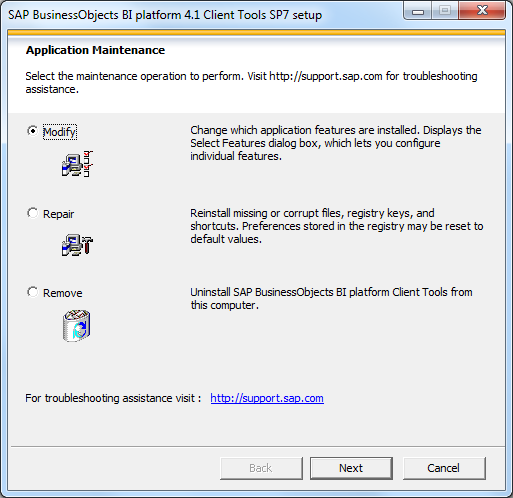
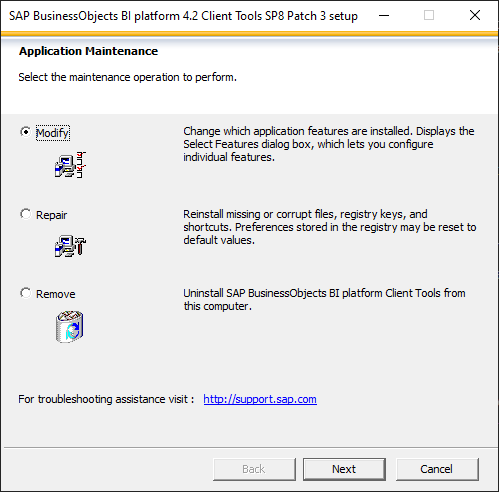
docs

Changed region(s): [[0.0, 0.0, 1.0, 1.0], [0.3607, 0.5793, 0.9319, 0.6402]]

diff --git a/_pages/unx-universe-documentation.md b/_pages/unx-universe-documentation.md
@@ -12,33 +12,31 @@ You can create documentation for a Unx universe in two ways: as a PDF or in an E
 2. Retrieve the Unx universe in IDT.
 3. Right-click on the item you want to document (e.g., business layer) and select "Save as."
 
-![Creating PDF documentation of UNX in IDT](/images/pages/unx-documentation.png)
+  ![Creating PDF documentation of UNX in IDT](/images/pages/unx-documentation.png)
 
 4. You can now select the destination and metadata elements to be exported.
 
-![Selection of elements for PDF documentation of UNX in IDT](/images/pages/unx-documentation-2.png)
+  ![Selection of elements for PDF documentation of UNX in IDT](/images/pages/unx-documentation-2.png)
 
-This method is suitable for quickly generating printable documentation.
+  ![PDF documentation of UNX created in IDT](/images/pages/unx-documentation-3.png)
 
-![PDF documentation of UNX created in IDT](/images/pages/unx-documentation-3.png)
-
-However, if you need structured documentation for practical purposes, consider the following method.
+This method is suitable for quickly generating printable documentation. However, if you need structured documentation for practical purposes, consider the following method.
 
 ## Creating XLSX Documentation using Biclever Unx Documenter
 
 1. Download [Biclever Unx Documenter](/products/unx-universe-documenter/) and unpack it to a preferred folder. Ensure you have Semantic Layer SDK enabled.
 2. Start the tool using `unxdoc.bat` and log in.
 
-![Biclever Unx Documenter](/images/pages/unx-documentation-4.png)
+  ![Biclever Unx Documenter](/images/pages/unx-documentation-4.png)
 
 3. Select a universe.
 
-![Selecting a universe](/images/pages/unx-documentation-5.png)
+  ![Selecting a universe](/images/pages/unx-documentation-5.png)
 
 4. Click "Process" and then "Export result." Choose a destination XLSX file.
 
-![Exporting result to XLSX](/images/pages/unx-documentation-6.png)
+  ![Exporting result to XLSX](/images/pages/unx-documentation-6.png)
 
-The universe metadata will be exported to an Excel spreadsheet, allowing for easy filtering, searching, and analysis.
+  The universe metadata will be exported to an Excel spreadsheet, allowing for easy filtering, searching, and analysis.
 
-![Excel spreadsheet with Unx universe metadata](/images/pages/unx-documentation-7.png)
+  ![Excel spreadsheet with Unx universe metadata](/images/pages/unx-documentation-7.png)

diff --git a/_pages/how-to-enable-semantic-layer-sdk.md b/_pages/how-to-enable-semantic-layer-sdk.md
@@ -4,27 +4,17 @@ date: 2019-03-07T12:00:00+00:00
 weight: 3
 ---
 
-To use Unx Documenter, you need to have Semantic Layer Java SDK enabled. By default, it is not enabled during the installation of SAP BusinessObjects client tools. Here are the steps to enable it:
+To use Unx Documenter, you need to have the Semantic Layer Java SDK enabled. Although it is installed by default on the server, it is unchecked by default during the installation of SAP BusinessObjects client tools and, therefore, often not installed. Here are the steps to enable it:
 
-1. Open "Programs and Features":
-
-![Programs and Features](/images/pages/sl-sdk-enable-00.png)
-
-2. Find the client tools and double-click on them (or right-click and select "Uninstall/Change"):
-
-![Client Tools](/images/pages/sl-sdk-enable-01.png)
-
-   - Note: The "Uninstall/Change" option is only available on the base installer (not on patches). Running "Uninstall/Change" on the base installer will detect the current patch level and modify it accordingly.
-
-3. On Windows 10, if the "Modify" option is grayed out, click "Uninstall." This will start the setup program. Ensure that you selected the full/base installer and not a patch:
+Open "Apps and Features". Locate the client tools and click "Uninstall". This action will not actually uninstall the client tools but will initiate the setup program instead. (Ensure that you have selected the full/base installer and not a patch):
 
 ![Windows 10](/images/pages/windows10.png)
 
-4. In the client tools setup, select "Modify":
+In the installer, select the option "Modify":
 
 ![Modify](/images/pages/sl-sdk-enable-02.png)
 
-5. Click "Next" for language selection. Add Semantic Layer Java SDK and complete the installation with "Next":
+Click "Next" for language selection. Add Semantic Layer Java SDK and complete the installation with "Next":
 
 ![Add Semantic Layer Java SDK](/images/pages/sl-sdk-enable-04.png)
 

diff --git a/_pages/unx-documenter-with-windows-ad.md b/_pages/unx-documenter-with-windows-ad.md
@@ -24,13 +24,13 @@ To set up **UnxDoc**, perform the following steps:
 2. Find the line:
 
     ```
-    START "" %JAVA%\bin\javaw.exe -Dbusinessobjects.connectivity.directory="%CD%" -cp "%CP%" com.biclever.gui.Program
+    START "" %JAVA%\bin\javaw.exe ...
     ```
 
 3. Add the parameters after `javaw.exe` (in one line, separated by space). There should be no spaces in the path, and no space before or after `=`. For example:
 
     ```
-    START "" %JAVA%\bin\javaw.exe -Djava.security.auth.login.config=c:\winnt\bscLogin.conf -Djava.security.krb5.conf=c:\winnt\krb5.ini -Dbusinessobjects.connectivity.directory="%CD%" -cp "%CP%" com.biclever.gui.Program
+    START "" %JAVA%\bin\javaw.exe -Djava.security.auth.login.config=c:\winnt\bscLogin.conf -Djava.security.krb5.conf=c:\winnt\krb5.ini ...
     ```
 
 4. Save the file.
